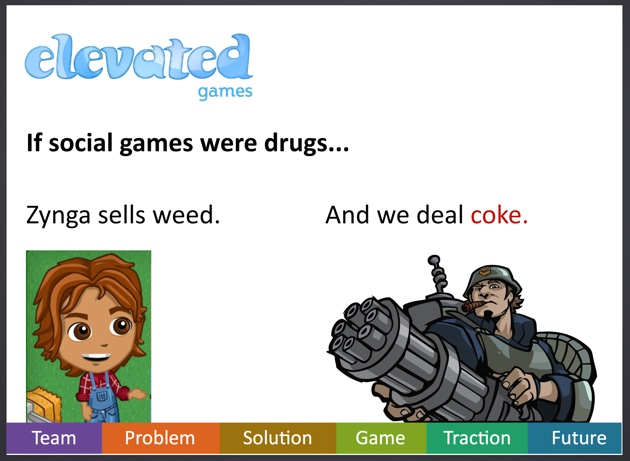
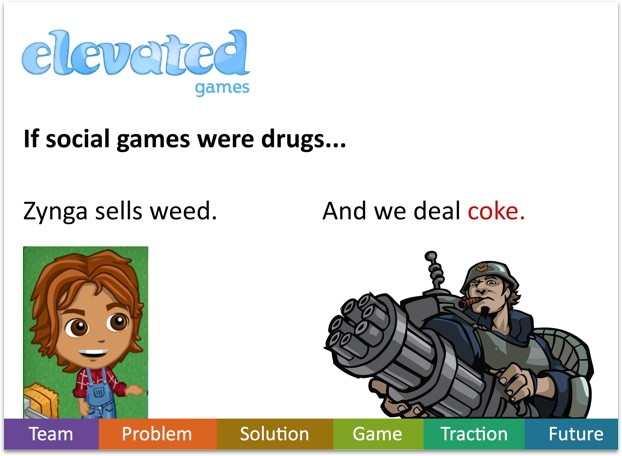
Fix footer responsiveness. Test in IE.

Changed region(s): [[0.0, 0.0, 1.0, 1.0], [0.5193, 0.4298, 0.8553, 0.4912]]

diff --git a/src/styles/_callToAction.scss b/src/styles/_callToAction.scss
@@ -8,15 +8,13 @@ $ctaCondensedBreakpoint: 520px;
   max-width: $bodyWidth;
   display: flex;
   border-top: 8px solid #00B572;
-  // margin-bottom: 60px;
 
-  @include whenNarrowerThan($condensedBreakpoint) {
-    // flex-direction: column;
+  @include whenNarrowerThan($ctaSqueezeBreakpoint) {
+    display: flex;
   }
 
   @include whenNarrowerThan($ctaStackBreakpoint) {
     flex-direction: column;
-    // margin-bottom: 0;
   }
 }
 
@@ -39,17 +37,17 @@ $ctaCondensedBreakpoint: 520px;
 
 .callToActionSection--left {
   flex: 1 1 0%;
-
-  @include whenNarrowerThan($ctaSqueezeBreakpoint) {
-    flex: 1 1 66.667%;
-  }
 }
 
 .callToActionSection--right {
   flex: 1 1 0%;
 
   @include whenNarrowerThan($ctaSqueezeBreakpoint) {
-    flex: 1 1 33.333%;
+    max-width: 33.333%;
+  }
+
+  @include whenNarrowerThan($ctaStackBreakpoint) {
+    max-width: none;
   }
 }
 
@@ -131,6 +129,10 @@ $ctaCondensedBreakpoint: 520px;
     flex-direction: column;
   }
 }
+
+  .flag__pole {
+    flex: 0 0 auto;
+  }
 
   .flag__body {
     padding-left: 20px;
